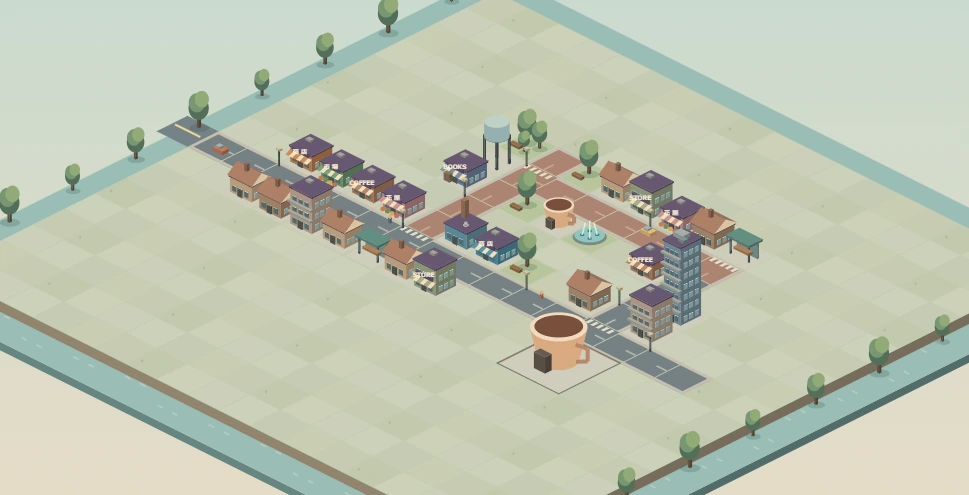
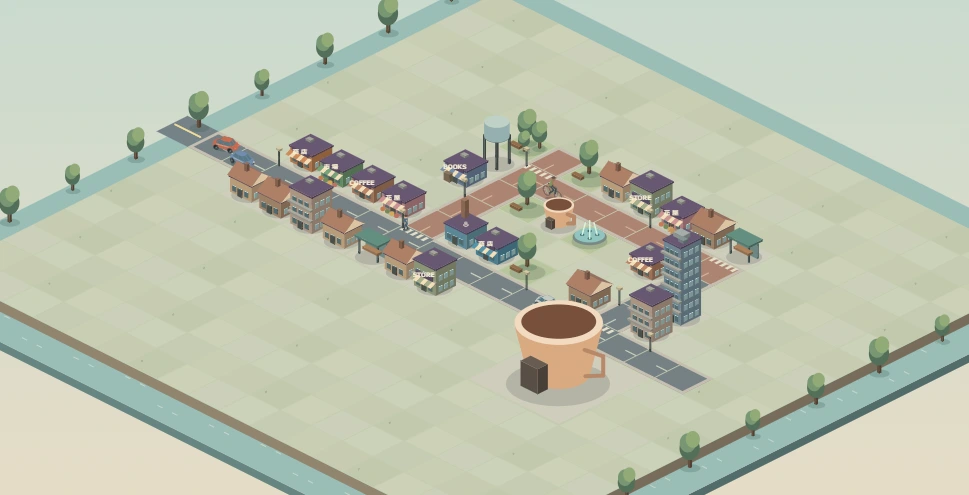
Unlock population landmarks and animate detailed street traffic

diff --git a/public/scale-town.js b/public/scale-town.js
@@ -3,6 +3,7 @@
  const $=id=>document.getElementById(id),key='asobiba.scaleTown.v1',fmt=n=>Math.round(n).toLocaleString('ja-JP');
  let city=Town.start(),speed=1,paused=false,night=false,mode='build',group=1,id=2,scale=1;
  try{const s=JSON.parse(localStorage.getItem(key));if(s?.version===1&&Array.isArray(s.buildings)&&Array.isArray(s.history))city=s}catch{}
+ city.peak=Math.max(city.peak||0,city.pop,...city.history);
  let zoneType='home';city.zones??={};let status=Town.stats(city),mapView,simulationClock=0;
  function say(text){$('message').textContent=text}
  function persist(){try{localStorage.setItem(key,JSON.stringify(city))}catch{say('このブラウザでは保存できません。')}}
@@ -16,12 +17,21 @@
  document.querySelectorAll('#palette button[data-id]').forEach(b=>b.setAttribute('aria-pressed',String(mode==='build'&&+b.dataset.id===id)));
  $('speed').textContent=speed+'×';$('pause').textContent=paused?'▶':'Ⅱ';$('pause').setAttribute('aria-label',paused?'時間を再開':'時間を停止');
  }
- function hud(){status=Town.stats(city);$('cityName').textContent=city.name;$('day').textContent='第 '+city.day+' 日';$('pop').textContent=fmt(city.pop)+' 人';$('cash').textContent=fmt(city.cash)+' G';$('income').textContent=(status.balance>=0?'+':'')+fmt(status.balance)+' G';$('happy').textContent=status.happy+' %';controls();if($('stats').open)details()}
+ function rewardStatus(){
+ const peak=city.peak||city.pop,next=Town.milestones.find(m=>m.pop>peak);
+ const names=m=>m.ids.map(id=>Town.items[id].name).join('・');
+ $('milestoneText').textContent=next?'最高人口 '+peak+' 人 ／ '+next.pop+' 人で '+names(next):'最高人口 '+peak+' 人 ／ すべての人口報酬を達成';
+ $('milestoneProgress').max=next?.pop||500;$('milestoneProgress').value=peak;
+ const list=$('rewardList');list.replaceChildren();
+ for(const m of Town.milestones){const row=document.createElement('p');row.textContent=(peak>=m.pop?'✓ 達成':'未達成')+'　'+m.pop+' 人　'+names(m);list.append(row)}
+ }
+ $('rewardsOpen').onclick=()=>{rewardStatus();$('rewards').showModal()};
+ function hud(){rewardStatus();status=Town.stats(city);$('cityName').textContent=city.name;$('day').textContent='第 '+city.day+' 日';$('pop').textContent=fmt(city.pop)+' 人';$('cash').textContent=fmt(city.cash)+' G';$('income').textContent=(status.balance>=0?'+':'')+fmt(status.balance)+' G';$('happy').textContent=status.happy+' %';controls();if($('stats').open)details()}
  function icon(button,item){const cv=document.createElement('canvas');cv.width=120;cv.height=78;button.append(cv);const g=cv.getContext('2d'),p=(x,y,z=0)=>[60+(x-y)*32,58+(x+y-1)*15-z*25];
  const art=TownArt.view(g,p,0,false);art.tile(0,0,1,1,0,'#d6dbc6');if(item.id<2){art.tile(.05,.05,.96,.96,.01,item.id===0?'#707d82':'#ae8672');art.line([.2,.5,.02],[.8,.5,.02],'#efd5ac',2)}else art.structure({x:0,y:0,s:1,id:item.id},city.theme)}
  function palette(){const list=$('palette');list.replaceChildren();if(group===5){
  for(const [value,name] of [['home','住宅地'],['shop','商業地'],['clear','指定解除']]){const b=document.createElement('button');b.className='zone-choice';b.textContent=name;b.setAttribute('aria-pressed',String(zoneType===value&&mode==='zone'));b.onclick=()=>{zoneType=value;mode='zone';palette();setMode('zone')};list.append(b)}
- }Town.items.filter(o=>o.group===group).forEach(v=>{const b=document.createElement('button');b.dataset.id=v.id;b.onclick=()=>{id=v.id;setMode('build')};icon(b,v);b.append(document.createTextNode(v.name));list.append(b)});Array.from($('groups').children).forEach((b,i)=>b.setAttribute('aria-pressed',String(i===group)));controls()}
+ }Town.items.filter(o=>o.group===group).forEach(v=>{const b=document.createElement('button');b.dataset.id=v.id;b.disabled=!Town.unlocked(city,v.id);if(b.disabled)b.title='最高人口 '+Town.required(v.id)+' 人で解放';b.onclick=()=>{id=v.id;setMode('build')};icon(b,v);b.append(document.createTextNode(v.name+(b.disabled?'・'+Town.required(v.id)+'人':'')));list.append(b)});Array.from($('groups').children).forEach((b,i)=>b.setAttribute('aria-pressed',String(i===group)));controls()}
  function setMode(value){mode=value;controls();say(mode==='build'?(id<2?'道路を引く始点から終点までドラッグ。':'空き区画を押して「'+Town.items[id].name+'」を建設。'):$('spec').textContent)}
  [...Town.groups,'区画指定'].forEach((name,i)=>{const b=document.createElement('button');b.textContent=name;b.onclick=()=>{group=i;if(i<5)id=Town.items.find(o=>o.group===i).id;mode=i===5?'zone':'build';palette();setMode(mode)};$('groups').append(b)});
  Town.sizes.forEach((s,i)=>option($('scale'),i,s.name+'（'+s.n+'×'+s.n+'）'));$('scale').onchange=()=>{scale=+$('scale').value;controls()};
@@ -34,7 +44,7 @@
  city.buildings.push(...fresh.map(o=>({...o,id,s:1,paid:city.free?0:cost})));changed(fresh.length+' 区画の道路を開通しました。')}
  function tap(pos){const {x,y}=pos,b=status.map.get(Town.key(x,y));
  if(mode==='build'){
- const obj={id,s:scale,x,y},err=Town.valid(city,status.map,obj);if(err)return say(err);const cost=Town.price(id,scale);if(!spend(cost))return;
+ if(!Town.unlocked(city,id))return say('人口条件を達成すると建設できます。');const obj={id,s:scale,x,y},err=Town.valid(city,status.map,obj);if(err)return say(err);const cost=Town.price(id,scale);if(!spend(cost))return;
  obj.paid=city.free?0:cost;city.buildings.push(obj);changed(Town.items[id].name+'が完成しました。');if(!status.active.has(obj))say('完成しました。町外につながる道路を建物の辺に接続してください。');return}
  if(!b)return say('ここは空き区画です。');const v=Town.items[b.id],paid=b.paid??Town.price(b.id,b.s);
  if(mode==='inspect'){const s=Town.sizes[b.s];return say(v.name+' ／ '+(b.id<2?(status.net.has(Town.key(x,y))?'町外に接続':'孤立した道路'):s.name+'・'+(status.active.has(b)?'道路接続済み':'道路未接続')+' ／ 入居枠 '+Math.round(v.homes*s.fac*(city.theme===3&&v.homes>=18?1.15:1))+' 人・雇用 '+Math.round(v.jobs*s.fac)+' 人'))}
@@ -52,7 +62,7 @@
  let count=0;for(const {x,y} of cells){const k=Town.key(x,y);if(zoneType==='clear'){if(k in city.zones){delete city.zones[k];count++}}else if(!status.map.has(k)&&city.zones[k]!==zoneType){city.zones[k]=zoneType;count++}}
  changed(count+' 区画の指定を更新しました。')
  }});
- $('rotate').onclick=()=>mapView.rotate();$('fit').onclick=()=>mapView.fit();$('plus').onclick=()=>mapView.zoom(1.22);$('minus').onclick=()=>mapView.zoom(.82);$('night').onclick=()=>{night=!night;$('night').setAttribute('aria-pressed',String(night))};
+ $('streetView').onclick=()=>{setMode('hand');mapView.street()};$('rotate').onclick=()=>mapView.rotate();$('fit').onclick=()=>mapView.fit();$('plus').onclick=()=>mapView.zoom(1.22);$('minus').onclick=()=>mapView.zoom(.82);$('night').onclick=()=>{night=!night;$('night').setAttribute('aria-pressed',String(night))};
  $('statsOpen').onclick=()=>{details();$('stats').showModal()};$('speed').onclick=()=>{speed=speed===1?2:speed===2?4:1;controls()};$('pause').onclick=()=>{paused=!paused;controls()};
  Town.themes.forEach((a,i)=>option($('theme'),i,a[0]));for(let t=5;t<=15;t++)option($('tax'),t,t+'%');
  $('theme').onchange=()=>$('themeInfo').textContent=Town.themes[+$('theme').value][2];
@@ -65,6 +75,6 @@
  readSettings();simulationClock=0;group=0;id=0;mode='build';scale=1;
  mapView.fit();$('setup').close();palette();changed('新しい街が誕生しました。入口の道路から通りを延ばしてください。')
  };
- setInterval(()=>{if(paused||document.hidden||$('setup').open)return;simulationClock+=speed;if(simulationClock<7)return;simulationClock-=7;Town.day(city);hud();persist()},1000);
+ setInterval(()=>{if(paused||document.hidden||$('setup').open)return;simulationClock+=speed;if(simulationClock<7)return;simulationClock-=7;const prev=city.peak||city.pop;Town.day(city);const reached=Town.milestones.filter(m=>prev<m.pop&&m.pop<=city.peak);if(reached.length){palette();say('人口報酬を獲得！ '+reached.flatMap(m=>m.ids.map(id=>Town.items[id].name)).join('・')+' が建設できます。')}hud();persist()},1000);
  palette();hud();say('道路沿いの空き区画に最初のお店を置こう。街の名前と方針は「街の設定」から。');
 })();

diff --git a/public/scale-town-art.js b/public/scale-town-art.js
@@ -14,7 +14,7 @@ const TownArt=(()=>{
  poly([[x,front,z],[X,front,z],[X,front,T],[x,front,T]],shade(base,sy>0?.85:.78));poly([[side,y,z],[side,Y,z],[side,Y,T],[side,y,T]],shade(base,.69));tile(x,y,w,d,T,roof)}
  function tree(x,y,s=.75){ellipse(x+.05,y+.04,.01,10*s,4*s,'#345a4838');block(x-.035*s,y-.035*s,0,.07*s,.07*s,.47*s,'#765d48');for(const [a,b,z,r,col] of [[0,.01,.51,10,'#526f59'],[-.07,0,.62,8,'#779673'],[.045,-.05,.74,7,'#92aa77']])ellipse(x+a*s,y+b*s,z*s,r*s,r*1.18*s,col)}
  function label(x,y,z,text,col='#f7eed4'){const [a,b]=p(x,y,z),u=Math.abs(p(x+1,y,z)[0]-a)/W;c.save();c.translate(a,b);c.scale(u,u);c.font='bold 6px sans-serif';c.fillStyle=col;c.textAlign='center';c.fillText(text,0,1,44);c.restore()}
- function structure(b,theme=0){
+ function structure(b,theme=0,time=0){
  const v=Town.items[b.id],sz=Town.sizes[b.s],n=sz.n,s=sz.draw,x=b.x+n/2,y=b.y+n/2,form=v.form;
  const base=v.color,trim=['#704f46','#638578','#685772','#697f91'][theme],light=night?'#ffd98a':'#b3d7d5',glass=night?'#f2c67d':'#617d80';
  function B(a,e,z,w,d,h,col,top){block(x+a*s,y+e*s,z*s,w*s,d*s,h*s,col,top)}
@@ -22,6 +22,42 @@ const TownArt=(()=>{
  function E(a,e,z,rx,ry,col){ellipse(x+a*s,y+e*s,z*s,rx*s,ry*s,col)}
  function L(a,e,col,w){line([x+a[0]*s,y+a[1]*s,a[2]*s],[x+e[0]*s,y+e[1]*s,e[2]*s],col,w)}
  tile(b.x+.035,b.y+.035,n-.07,n-.07,.013,v.group===4?'#b7c59c':'#cfccbc');
+ E(.08,.09,.022,20,8.6,'#394c4530');
+ function beam(a,b,col,width){L(a,b,col,Math.max(.6,width*Math.abs(p(x+1,y,0)[0]-p(x,y,0)[0])/W*s))}
+ function face(points,col){poly(points.map(([a,b,z])=>[x+a*s,y+b*s,z*s]),col)}
+ if(form==='wheel'){
+   const R=.455,center=.64;
+   for(const dy of [-.15,.15]){beam([-.30,dy,0],[0,dy,center],'#526975',3);beam([.30,dy,0],[0,dy,center],'#77939e',3)}
+   const rim=[];for(let j=0;j<32;j++){const a=j*Math.PI/16;rim.push([Math.cos(a)*R,.01,center+Math.sin(a)*R])}
+   for(let j=0;j<32;j++)beam(rim[j],rim[(j+1)%32],'#a66657',2);
+   for(let j=0;j<10;j++){const a=j*Math.PI/5+time*.16,X=R*Math.cos(a),z=center+R*Math.sin(a);beam([0,.01,center],[X,.01,z],'#d4b197',1);beam([X,.01,z],[X,.01,z-.055],'#405560',1);B(X-.043,-.043,z-.13,.086,.09,.082,['#ba715a','#73958d','#ccaa65'][j%3])}
+   E(0,.02,center,3.4,3.2,'#e2b66d');return
+ }
+ if(form==='windmill'){
+   const wall=[];for(let j=0;j<12;j++){const a=j*Math.PI/6;wall.push([.31*Math.cos(a),.31*Math.sin(a)])}
+   for(let j=0;j<12;j++){const [a,b]=wall[j],[d,e]=wall[(j+1)%12];if((a+d)*sx+(b+e)*sy<0)continue;
+   face([[a,b,.025],[d,e,.025],[d*.64,e*.64,.72],[a*.64,b*.64,.72]],shade('#d3b99b',.81+j*.012))}
+   for(let j=0;j<10;j++)E(0,0,.72+j*.019,9-j*.82,4.5-j*.35,'#74594f');
+   for(let j=0;j<4;j++){const a=time*.64+j*Math.PI/2,co=Math.cos(a),si=Math.sin(a);
+   const tip=(r,w)=>[r*co-w*si,.24,.67+r*si+w*co];
+   face([tip(.10,0),tip(.45,0),tip(.45,.085),tip(.18,.05)],'#ece1c2');beam(tip(-.02,0),tip(.47,0),'#755c47',1.6);
+   for(let k=0;k<4;k++)beam(tip(.21+k*.06,0),tip(.21+k*.06,.06),'#96866e',.65)}
+   E(0,.24,.67,2.4,2.4,'#725847');return
+ }
+ if(form==='carousel'){
+   E(0,0,.1,18,8,'#966952');E(0,0,.14,18,8,'#e0bb81');B(-.035,-.035,.12,.07,.07,.55,'#ad8760');
+   for(let j=0;j<8;j++){const a=time*.47+j*Math.PI/4,X=.32*Math.cos(a),Y=.32*Math.sin(a),z=.31+.043*Math.sin(2*a);beam([X,Y,.13],[X,Y,.63],'#a0824d',1);E(X,Y,z,3.2,1.7,j%2?'#ceb18e':'#967960');E(X+.055,Y,z+.05,1.4,1.9,'#bd9e7a')}
+   for(let j=0;j<12;j++){const a=j*Math.PI/6,d=a+Math.PI/6;face([[0,0,.93],[.48*Math.cos(a),.48*Math.sin(a),.63],[.48*Math.cos(d),.48*Math.sin(d),.63]],j%2?'#e6cc9d':'#b95f5b')}E(0,0,.95,2,2.4,'#c9a359');return
+ }
+ if(form==='clockgarden'||form==='clocktower'){
+   const tower=form==='clocktower',z=tower?.93:.11;
+   if(tower){B(-.23,-.23,0,.46,.46,.86,'#b88f73');B(-.29,-.29,.81,.58,.58,.30,'#c7a88a');
+   for(let j=0;j<12;j++)E(0,0,1.12+j*.025,14-j,7-j*.5,'#648378');
+   E(0,.3,z+.045,5,5,'#fff0c5');beam([0,.3,z+.045],[.08*Math.sin(time*.14),.3,z+.045+.08*Math.cos(time*.14)],'#494943',1.2)}
+   else{E(0,0,z,19,9,'#73835e');for(let j=0;j<12;j++){const a=j*Math.PI/6;E(.35*Math.cos(a),.35*Math.sin(a),z+.03,2.3,2,['#dc9b92','#e6c390','#a8afcc'][j%3])}
+   beam([0,0,z+.045],[.27*Math.cos(time*.1),.27*Math.sin(time*.1),z+.045],'#f1e3bc',2);beam([0,0,z+.047],[-.11,.13,z+.047],'#dbc188',2)}
+   return
+ }
  if(['park','grove','button','market','bus','tank'].includes(form)){
  if(form==='park'||form==='grove'){tree(x-.19*s,y-.17*s,1.05*s);if(form==='grove'){tree(x+.25*s,y-.19*s,.86*s);tree(x+.08*s,y+.22*s,.65*s)}B(-.32,.22,.08,.34,.13,.085,'#946e4c');return}
  if(form==='button'){E(0,0,.09,19,9,'#798985');E(0,0,.145,17,8,'#91c5c0');for(const i of [-1,1])for(const j of [-1,1]){E(i*.14,j*.14,.16,2.4,1.4,'#4a777c');L([i*.14,j*.14,.16],[i*.08,j*.08,.52],'#d7f3df',1.4)}return}
@@ -41,10 +77,15 @@ const TownArt=(()=>{
  B(sx>0?w/2:-w/2-.015,-d*.36+j*d*.27,z,.018,d*.16,.15,light)}
  if(f&&['tower','flat','mixed'].includes(form))B(-w/2-.035,sy>0?d/2:-d/2-.085,z-.03,w+.07,.09,.055,'#acaaa0')}
  B(-.1,sy>0?d/2:-d/2-.024,.03,.16,.029,.22,'#585e58');
+ // Cornices, masonry courses and roof fittings give each frontage a material scale.
+ for(const a of [-w*.47,w*.45])B(a,sy>0?d/2:-d/2-.017,.04,.026,.024,h-.01,'#b4a78d');
+ if(['library','bath','books','cinema'].includes(form)){
+ for(let j=1;j<7;j++)L([-w*.48,sy*d*.502,j*.058],[w*.48,sy*d*.502,j*.058],'#957f7070',.55)}
  B(-w/2-.025,-d/2-.025,h+.03,w+.05,d+.05,.045,trim);
  if(form==='house'||form==='row'||form==='library'){
  const X=x-w*s*.57,Y=y-d*s*.58,A=x+w*s*.57,D=y+d*s*.58,z=(h+.075)*s,peak=z+.27*s;
  poly([[X,Y,z],[A,Y,z],[A,y,peak],[X,y,peak]],'#927061');poly([[X,y,peak],[A,y,peak],[A,D,z],[X,D,z]],'#ae8067');
+ for(let j=1;j<=7;j++){const rx=X+(A-X)*j/8;line([rx,y,peak],[rx,sy>0?D:Y,z],'#795e525e',.8)}
  const end=sx>0?A:X;poly([[end,Y,z],[end,D,z],[end,y,peak]],'#dcc3a0');B(-.23,-.14,h+.13,.095,.10,.22,'#956f59');return}
  if(['awning','produce','cafe','flowers','lantern','mixed','books'].includes(form)){
  const edge=d/2*sy;for(let j=0;j<6;j++){const a=-w/2+j*w/6;
@@ -52,7 +93,10 @@ const TownArt=(()=>{
  if(form==='produce'||form==='flowers')for(let j=0;j<4;j++)E(-.28+j*.17,edge+.13*sy,.1,2.7,2.5,['#c67b4e','#748b56','#d5aa59','#be7160'][j]);
  if(form==='lantern')E(.36,edge,.29,3.3,5,'#d57b58');
  const sign={'awning':'商 店','produce':'市 場','cafe':'COFFEE','flowers':'花 屋','lantern':'中 華','mixed':'STORE','books':'BOOKS'}[form];
- B(-.31,edge,.43,.62,.034,.115,trim);label(x,y+(edge+.035*sy)*s,.475*s,sign);
+ B(-.31,edge,.43,.62,.034,.115,trim);const nameplate=sy>0?edge+.045:edge-.045;
+ const a=p(x-.3*s,y+nameplate*s,.545*s),b=p(x+.3*s,y+nameplate*s,.545*s),lower=p(x-.3*s,y+nameplate*s,.425*s);
+ c.save();if(b[0]<a[0]){const e=p(x+.3*s,y+nameplate*s,.425*s);c.transform((a[0]-b[0])/90,(a[1]-b[1])/90,(e[0]-b[0])/20,(e[1]-b[1])/20,b[0],b[1])}else c.transform((b[0]-a[0])/90,(b[1]-a[1])/90,(lower[0]-a[0])/20,(lower[1]-a[1])/20,a[0],a[1]);
+ c.fillStyle=trim;c.fillRect(0,0,90,20);c.fillStyle='#f4e7c8';c.font='bold 14px sans-serif';c.textAlign='center';c.fillText(sign,45,15);c.restore();
  if(form==='books')B(-.33,edge,.02,.21,.12,.24,'#8a785e');
  }
  if(form==='bath'){B(-.3,-.27,h+.075,.14,.15,.52,'#9f795f');label(x,y,h*s,'♨')}

diff --git a/public/scale-town-motion.js b/public/scale-town-motion.js
@@ -1,0 +1,74 @@
+'use strict';
+const StreetMotion=(()=>{
+ // Consecutive quadratics share a lane midpoint and a tangent; the controller
+ // advances more slowly near a bend, including the loop at a dead end.
+ function sample(route,q,lane){
+ const n=route.length,i=Math.floor(q)%n,u=q%1;
+ const A=route[(i+n-1)%n],B=route[i],C=route[(i+1)%n];
+ const ux=B[0]-A[0],uy=B[1]-A[1],vx=C[0]-B[0],vy=C[1]-B[1];
+ const bend=ux!==vx||uy!==vy,t=bend?u+.24*Math.sin(u*2*Math.PI)/(2*Math.PI):u;
+ const U=[(A[0]+B[0])/2+.5-uy*lane,(A[1]+B[1])/2+.5+ux*lane];
+ const V=[(B[0]+C[0])/2+.5-vy*lane,(B[1]+C[1])/2+.5+vx*lane];
+ const back=ux===-vx&&uy===-vy;
+ const K=[B[0]+.5-(uy+vy)*lane/2+(back?ux*.39:0),B[1]+.5+(ux+vx)*lane/2+(back?uy*.39:0)];
+ const w=1-t,x=w*w*U[0]+2*w*t*K[0]+t*t*V[0],y=w*w*U[1]+2*w*t*K[1]+t*t*V[1];
+ return {x,y,angle:Math.atan2(w*(K[1]-U[1])+t*(V[1]-K[1]),w*(K[0]-U[0])+t*(V[0]-K[0])),braking:bend&&u<.65};
+ }
+ function draw(ctx,project,pose,kind,j,phase,night){
+ const {x,y,angle}=pose,co=Math.cos(angle),si=Math.sin(angle);
+ const pt=(a,b,z)=>project(x+a*co-b*si,y+a*si+b*co,z);
+ const origin=pt(0,0,0),unit=Math.abs(project(x,y,1)[1]-origin[1]);
+ function path(points){ctx.beginPath();points.forEach((v,i)=>i?ctx.lineTo(...pt(...v)):ctx.moveTo(...pt(...v)))}
+ function fill(points,col){path(points);ctx.closePath();ctx.fillStyle=col;ctx.fill()}
+ function line(points,width,col){path(points);ctx.lineWidth=Math.max(.45,width*unit);ctx.lineCap='round';ctx.lineJoin='round';ctx.strokeStyle=col;ctx.stroke()}
+ function oval(a,b,z,rx,ry,col){ctx.beginPath();ctx.ellipse(...pt(a,b,z),rx*unit,ry*unit,0,0,Math.PI*2);ctx.fillStyle=col;ctx.fill()}
+ function wheel(a,b,z,r,spokes){
+ const rim=[];for(let k=0;k<=20;k++){const t=k*Math.PI/10;rim.push([a+r*Math.cos(t),b,z+r*Math.sin(t)])}
+ if(!spokes)fill(rim,'#262d30');line(rim,spokes?.011:.014,'#364044');
+ for(let k=0;k<(spokes?6:3);k++){const t=phase+k*Math.PI/3;line([[a,b,z],[a+r*.82*Math.cos(t),b,z+r*.82*Math.sin(t)]],.007,spokes?'#bac7bd':'#9ba5a3')}
+ }
+ const near=pt(0,1,0)[1]>origin[1]?1:-1;
+ oval(0,.02,.004,kind==='car'?.28:kind==='cycle'?.18:.078,kind==='car'?.09:.035,'#233d3844');
+ if(kind==='car'){
+ const paint=['#c76c50','#728daf','#e7bc72','#72a194','#c4c9c3'][j%5],front=pt(1,0,0)[1]>origin[1]?1:-1;
+ const rings=[[.05,.275,.11],[.105,.318,.14],[.16,.28,.138],[.17,.23,.125],[.257,.125,.10]];
+ function ring([z,len,breadth],k){const a=k*Math.PI/10,dx=Math.cos(a),dy=Math.sin(a);return [Math.sign(dx)*Math.pow(Math.abs(dx),.43)*len-(z>.18?.025:0),Math.sign(dy)*Math.pow(Math.abs(dy),.42)*breadth,z]}
+ for(const a of [-.18,.18])wheel(a,-near*.12,.066,.06,false);
+ for(let h=1;h<rings.length;h++){const faces=[];for(let k=0;k<20;k++){
+ const pts=[ring(rings[h-1],k),ring(rings[h-1],k+1),ring(rings[h],k+1),ring(rings[h],k)];faces.push({pts,d:pt(...pts[0])[1]+pt(...pts[1])[1]})}
+ faces.sort((a,b)=>a.d-b.d).forEach(({pts})=>{const top=pt(...pts[3]),low=pt(...pts[0]),sheen=ctx.createLinearGradient(top[0],top[1],low[0]+.1,low[1]+.1);
+ sheen.addColorStop(0,h===4?'#adc7ce':paint);sheen.addColorStop(1,h===4?'#466171':h===1?'#556063':paint);fill(pts,sheen);if(h===4&&Math.abs(pts[0][0])>.19&&Math.abs(pts[0][1])>.10)line([pts[0],pts[3]],.009,paint)})
+ }fill(Array.from({length:20},(_,k)=>ring(rings[4],k)),paint);
+ for(const a of [-.18,.18])wheel(a,near*.145,.066,.06,false);
+ line([[-.14,near*.143,.154],[.17,near*.143,.154]],.009,'#d0d6cc');
+ for(const b of [-.081,.081]){oval(front*.289,b,.122,.023,.012,front>0?'#ffe5ae':pose.braking?'#ff7050':'#ae463c');
+ if(night)fill([[.295,b,.018],[.64,b-.072,.011],[.64,b+.072,.011]],'#ffde9a38')}
+ return}
+ const coat=['#b46c51','#476781','#84925f','#c2945d','#a58395','#527e76'][j%6],skin=['#cb9776','#d6ad8c','#9f7359'][j%3];
+ if(kind==='cycle'){
+ const rear=[-.18,0,.12],hub=[.18,0,.12],crank=[0,0,.10],seat=[-.08,0,.31],bars=[.125,0,.33];
+ wheel(...rear,.116,true);wheel(...hub,.116,true);line([rear,seat,crank,rear],.018,coat);line([seat,bars,crank],.017,coat);line([hub,bars,[.14,.05,.36]],.017,'#657678');
+ line([[-.13,0,.323],[-.045,0,.323]],.028,'#423c37');
+ for(const side of [-near,near]){const a=phase+(side===near?0:Math.PI),pedal=[.057*Math.cos(a),side*.035,.12+.057*Math.sin(a)];line([[ -.065,side*.024,.32],[.08,side*.036,.25+.018*Math.sin(a)],pedal],.043,'#435057')}
+ line([[-.065,0,.32],[.012,0,.46]],.084,coat);line([[.018,near*.024,.437],[.074,near*.038,.366],[.14,near*.04,.35]],.029,skin);
+ oval(.041,0,.512,.049,.061,skin);oval(.036,0,.544,.05,.028,'#5a5450');return}
+ const bob=.009*Math.cos(phase*2),hip=.17+bob,shoulder=.296+bob;
+ for(const side of [-near,near]){
+ const a=phase+(side===near?0:Math.PI),swing=Math.sin(a),lift=Math.max(0,Math.cos(a)),foot=[.088*swing,side*.021,.018+.045*lift],knee=[.04*swing+.035*lift,side*.021,.092+.019*lift];
+ line([[0,side*.022,hip],knee,foot],.035,'#48535a');line([foot,[foot[0]+.027,foot[1],foot[2]]],.025,'#403c39')
+ }
+ // Jacket silhouette, collar and a shaded side panel follow the shoulder bob.
+ const [cx,cy]=pt(.004,0,shoulder);
+ const cloth=ctx.createLinearGradient(cx-unit*.06,cy,cx+unit*.06,cy+unit*.07);
+ cloth.addColorStop(0,coat);cloth.addColorStop(.8,coat);cloth.addColorStop(1,'#59605a');
+ ctx.fillStyle=cloth;ctx.beginPath();ctx.moveTo(cx-unit*.045,cy);
+ ctx.quadraticCurveTo(cx,cy-unit*.022,cx+unit*.047,cy);
+ ctx.quadraticCurveTo(cx+unit*.055,cy+unit*.037,cx+unit*.036,cy+unit*.089);
+ ctx.lineTo(cx+unit*.046,cy+unit*.141);ctx.quadraticCurveTo(cx,cy+unit*.153,cx-unit*.043,cy+unit*.136);ctx.closePath();ctx.fill();
+ oval(.006,0,shoulder+.016,.021,.024,skin);
+ for(const side of [-near,near]){const swing=Math.sin(phase+(side===near?0:Math.PI));line([[.008,side*.036,shoulder],[.003-.039*swing,side*.046,.237+bob]],.033,coat);line([[.003-.039*swing,side*.046,.237+bob],[.019-.075*swing,side*.045,.20+bob]],.024,skin)}
+ oval(.011,0,.357+bob,.043,.053,skin);oval(.003,0,.383+bob,.045,.031,'#514941');oval(.046,0,.357+bob,.012,.014,skin);
+ if(j%3===1){line([[-.03,near*.024,shoulder],[.015,near*.03,hip+.01]],.011,'#706047');oval(-.022,near*.036,hip+.013,.037,.032,'#795945')}
+ }
+ return {sample,draw};
+})();

diff --git a/public/scale-town-map.js b/public/scale-town-map.js
@@ -11,7 +11,7 @@ function townMap(canvas,api){
  function zoneCells(a,b){
  const cells=[];for(let x=Math.max(0,Math.min(a.x,b.x));x<=Math.min(N-1,Math.max(a.x,b.x));x++)
  for(let y=Math.max(0,Math.min(a.y,b.y));y<=Math.min(N-1,Math.max(a.y,b.y));y++)cells.push({x,y});return cells}
- function setZoom(k){zoom=Math.max(.53,Math.min(3,zoom*k))}
+ function setZoom(k){zoom=Math.max(.53,Math.min(5,zoom*k))}
  canvas.onwheel=e=>{e.preventDefault();setZoom(e.deltaY>0?.88:1.14)};
  canvas.oncontextmenu=e=>e.preventDefault();canvas.onpointerdown=e=>{
  if(drag)return;const start=cell(e);drag={id:e.pointerId,start,last:start,moving:api.mode()==='hand'||e.button===2||e.shiftKey,cx:e.clientX,cy:e.clientY};hover=start;canvas.setPointerCapture(e.pointerId)};
@@ -23,13 +23,13 @@ function townMap(canvas,api){
  let routes=[],oldNet=null;
  function traffic(net){if(oldNet===net)return;oldNet=net;routes=[];
  const streets=Array.from(net,k=>k.split(',').map(Number));if(streets.length<2)return;
- for(let j=0;j<14;j++){const walk=[streets[(j*7)%streets.length]];
+ for(let j=0;j<27;j++){const walk=[streets[(j*7)%streets.length]];
  for(let t=0;t<14;t++){const [x,y]=walk.at(-1),back=walk.at(-2);
  let options=[[x+1,y],[x-1,y],[x,y+1],[x,y-1]].filter(([a,b])=>net.has(Town.key(a,b)));
  if(options.length>1&&back)options=options.filter(([a,b])=>a!==back[0]||b!==back[1]);
  if(!options.length)break;walk.push(options[(t*13+j)%options.length])}if(walk.length>1)routes.push(walk.concat(walk.slice(1,-1).reverse()))}}
  function paint(t){
- requestAnimationFrame(paint);if(t-last<42||!w||document.hidden)return;const dt=Math.min(.1,(t-last)/1000);last=t;if(api.running())trafficTime+=dt*api.running();
+ requestAnimationFrame(paint);if(t-last<28||!w||document.hidden)return;const dt=Math.min(.1,(t-last)/1000);last=t;if(api.running())trafficTime+=dt*api.running();
  const c=api.city(),st=api.stats(),night=api.night(),v=TownArt.view(ctx,project,rotation,night);
  const bg=ctx.createLinearGradient(0,0,0,h);bg.addColorStop(0,night?'#253747':'#cbdacf');bg.addColorStop(1,night?'#48555c':'#e5dcc6');ctx.fillStyle=bg;ctx.fillRect(0,0,w,h);
  v.block(-1,-1,-.48,N+2,N+2,.22,'#799c99',night?'#526d76':'#9abdb7');for(let i=0;i<52;i++){
@@ -57,18 +57,26 @@ function townMap(canvas,api){
  const bad=api.mode()==='build'&&Town.valid(c,st.map,{...a,id,s});v.tile(a.x,a.y,n,n,.022,bad?'#bb806d':'#adcdb4','#376c66')}
  if(api.mode()==='build'&&id>=2&&!Town.valid(c,st.map,b))ghost=b}
  const list=[];
- for(const b of c.buildings){if(b.id<2)continue;const n=Town.sizes[b.s].n;list.push({d:depth(b.x+n/2,b.y+n/2),draw:()=>{v.structure(b,c.theme);if(!st.active.has(b)){const [x,y]=project(b.x+n*.5,b.y+n*.5,1);ctx.fillStyle='#af5845';ctx.fillRect(x-2,y-2,4,4)}}})}
+ for(const b of c.buildings){if(b.id<2)continue;const n=Town.sizes[b.s].n;list.push({d:depth(b.x+n/2,b.y+n/2),draw:()=>{v.structure(b,c.theme,trafficTime);if(!st.active.has(b)){const [x,y]=project(b.x+n*.5,b.y+n*.5,1);ctx.fillStyle='#af5845';ctx.fillRect(x-2,y-2,4,4)}}})}
  for(const b of c.buildings){if(b.id>=2||(b.x+2*b.y)%4!==0)continue;
  const x=b.x+.1,y=b.y+.14;list.push({d:depth(x,y),draw:()=>{v.block(x,y,.025,.031,.031,.43,'#586560');v.block(x-.037,y-.025,.45,.12,.09,.055,night?'#ffe5a3':'#d6c9a1')}})}
  for(let j=0;j<15;j++){const x=j%2?N+.46:-.47,y=1+j*1.02;if(y>17.6)continue;list.push({d:depth(x,y),draw:()=>v.tree(x,y,.72+(j%3)*.13)})}
  if(ghost){const n=Town.sizes[ghost.s].n;list.push({d:depth(ghost.x+n/2,ghost.y+n/2),draw:()=>{ctx.globalAlpha=.55;v.structure(ghost,c.theme);ctx.globalAlpha=1}})}
  traffic(st.net);
- routes.slice(0,Math.min(routes.length,Math.ceil(c.pop/7))).forEach((route,j)=>{const car=j%3===0,q=trafficTime*(car?.7:.32)+j*1.7,i=Math.floor(q)%route.length,f=q%1,[x,y]=route[i],[nx,ny]=route[(i+1)%route.length],dx=nx-x,dy=ny-y;
- const a=x+.5+dx*f-dy*(car?.13:.32),b=y+.5+dy*f+dx*(car?.13:.32),col=['#c57a58','#64798b','#aaa675','#e4be76'][j%4];
- list.push({d:depth(a,b),draw:()=>{if(car){v.block(a-.11,b-.10,.035,dx?.31:.21,dy?.31:.21,.095,col);v.block(a-.055,b-.06,.13,.13,.13,.05,'#9bb3b2')}else{v.block(a-.025,b-.025,.015,.055,.055,.125,col);v.ellipse(a,b,.17,1.6,1.9,'#d8ad84')}}})});
+ routes.slice(0,Math.min(routes.length,Math.ceil(c.pop/5))).forEach((route,j)=>{
+ const kind=['car','walk','cycle','walk','car','walk'][j%6],speed={car:.72,cycle:.46,walk:.26}[kind];
+ const q=trafficTime*speed+j*1.7,pose=StreetMotion.sample(route,q,kind==='walk'?.34:kind==='cycle'?.24:.14);
+ list.push({d:depth(pose.x,pose.y),draw:()=>StreetMotion.draw(ctx,project,pose,kind,j,trafficTime*(kind==='walk'?5.8:kind==='cycle'?4:9)+j,night)})
+ });
  list.sort((a,b)=>a.d-b.d).forEach(o=>o.draw());
  if(night){ctx.fillStyle='#182a4c45';ctx.fillRect(0,0,w,h);for(const b of c.buildings){if(b.id>1&&Town.items[b.id].group===1&&st.active.has(b)){const [x,y]=project(b.x+.68,b.y+.68,.24),r=12*base*zoom,gl=ctx.createRadialGradient(x,y,0,x,y,r);gl.addColorStop(0,'#ffde8f88');gl.addColorStop(1,'#ffd18000');ctx.fillStyle=gl;ctx.fillRect(x-r,y-r,r*2,r*2)}}}
  }
  requestAnimationFrame(paint);
- return {rotate(){rotation=(rotation+1)%4},zoom:setZoom,fit(){zoom=Math.min(1,w/(N*2*W*base+8),h/(N*2*H*base+40));panX=0;panY=0},project};
+ return {street(){
+ const s=api.stats(),roads=Array.from(s.net,k=>k.split(',').map(Number));
+ if(!roads.length)return;
+ const shops=Array.from(s.active).filter(b=>Town.items[b.id].group===1);
+ const street=roads.reduce((best,r)=>{const score=shops.reduce((n,b)=>n+1/(1+(b.x-r[0])**2+(b.y-r[1])**2),0);return score>best.score?{r,score}:best},{score:-1}).r;
+ zoom=3.6;panX=0;panY=0;const [px,py]=project(street[0]+.5,street[1]+.5);panX=w/2-px;panY=h*.57-py;
+ },rotate(){rotation=(rotation+1)%4},zoom:setZoom,fit(){zoom=Math.min(1,w/(N*2*W*base+8),h/(N*2*H*base+40));panX=0;panY=0},project};
 }

diff --git a/public/scale-town.html b/public/scale-town.html
@@ -1,8 +1,8 @@
-<!doctype html><html lang="ja"><head><meta charset="utf-8"><meta name="viewport" content="width=device-width,initial-scale=1"><meta name="theme-color" content="#172c34"><title>縮尺が壊れた商店街｜ホームページの遊び場</title><link rel="stylesheet" href="/playground-nav.css"><link rel="stylesheet" href="/scale-town.css"><script defer src="/playground-nav.js"></script><script defer src="/scale-town-data.js"></script><script defer src="/scale-town-art.js"></script><script defer src="/scale-town-map.js"></script><script defer src="/scale-town.js"></script></head><body>
+<!doctype html><html lang="ja"><head><meta charset="utf-8"><meta name="viewport" content="width=device-width,initial-scale=1"><meta name="theme-color" content="#172c34"><title>縮尺が壊れた商店街｜ホームページの遊び場</title><link rel="stylesheet" href="/playground-nav.css"><link rel="stylesheet" href="/scale-town.css"><script defer src="/playground-nav.js"></script><script defer src="/scale-town-data.js"></script><script defer src="/scale-town-art.js"></script><script defer src="/scale-town-motion.js"></script><script defer src="/scale-town-map.js"></script><script defer src="/scale-town.js"></script></head><body>
 <header><a href="/">✳ 遊び場</a><i></i><span>街づくりスタジオ</span><button id="settings">街の設定</button></header>
 <main><div class="mast"><div><small>SCALE DISTRICT</small><h1>縮尺が壊れた商店街<span>。</span></h1></div><div class="clock"><b id="day"></b><button id="speed" title="時間の速さ"></button><button id="pause" aria-label="時間を停止"></button></div></div>
 <div class="metrics"><div><small>人口</small><strong id="pop"></strong></div><div><small>街の資金</small><strong id="cash"></strong></div><div><small>日次収支</small><strong id="income"></strong></div><div><small>住民満足度</small><strong id="happy"></strong></div></div>
-<div class="workspace"><section class="map-wrap"><div class="maphead"><div><span class="lamp"></span><b id="cityName"></b></div><button id="statsOpen">街の統計 ↗</button></div><canvas id="map" aria-label="商店街の区画マップ"></canvas><div class="maptools"><button id="hand">✥ 移動</button><button id="rotate" aria-label="視点を回転">↻</button><button id="plus" aria-label="拡大">＋</button><button id="minus" aria-label="縮小">−</button><button id="fit" aria-label="全景に戻す">全景</button><button id="night" aria-pressed="false">夜景</button></div><p id="message" role="status"></p></section>
+<div class="milestone"><span id="milestoneText"></span><progress id="milestoneProgress" aria-label="次の人口報酬まで"></progress><button id="rewardsOpen">人口報酬一覧</button></div><div class="workspace"><section class="map-wrap"><div class="maphead"><div><span class="lamp"></span><b id="cityName"></b></div><button id="statsOpen">街の統計 ↗</button></div><canvas id="map" aria-label="商店街の区画マップ"></canvas><div class="maptools"><button id="hand">✥ 移動</button><button id="streetView">通りを観察</button><button id="rotate" aria-label="視点を回転">↻</button><button id="plus" aria-label="拡大">＋</button><button id="minus" aria-label="縮小">−</button><button id="fit" aria-label="全景に戻す">全景</button><button id="night" aria-pressed="false">夜景</button></div><p id="message" role="status"></p></section>
 <aside><h2>建設パレット</h2><div id="groups"></div><div id="palette"></div><div class="options"><strong id="selectedName"></strong><label>縮尺 <select id="scale"></select></label><p id="spec"></p><div class="edit"><button id="inspect">区画を調べる</button><button id="resize">縮尺変更</button><button id="remove">撤去</button></div></div></aside></div>
 </main><dialog id="setup"><form method="dialog"><div class="dialoghead"><h2>街の設定</h2><button aria-label="閉じる">×</button></div></form><label>街の名前 <input id="name" maxlength="24"></label><label>街の方針 <select id="theme"></select></label><p id="themeInfo"></p><label>住民税率 <select id="tax"></select></label><label><input id="free" type="checkbox"> 自由建築（建設費の支払いなし）</label><button id="apply">設定を保存</button><details class="new-town"><summary>新しい街を始める</summary><p>現在の街を置き換え、町外への入口と 3,500 G だけの更地から始めます。</p><button id="newTown">更地から始める</button></details></dialog>
-<dialog id="stats"><form method="dialog"><div class="dialoghead"><h2>街の統計</h2><button aria-label="閉じる">×</button></div></form><div id="details"></div><h3>最近の人口推移</h3><canvas id="trend" width="460" height="125"></canvas></dialog></body></html>
+<dialog id="rewards"><form method="dialog"><div class="dialoghead"><h2>人口の達成報酬</h2><button aria-label="閉じる">×</button></div></form><div id="rewardList"></div></dialog><dialog id="stats"><form method="dialog"><div class="dialoghead"><h2>街の統計</h2><button aria-label="閉じる">×</button></div></form><div id="details"></div><h3>最近の人口推移</h3><canvas id="trend" width="460" height="125"></canvas></dialog></body></html>

diff --git a/public/scale-town-data.js b/public/scale-town-data.js
@@ -9,6 +9,17 @@ const Town=(()=>{
  ['バス停','bus','#78a394',100,0,2,2,2,3],['診療所','clinic','#d1c6b4',220,0,8,3,3,3],['図書館','library','#a0806c',200,0,6,7,2,3],['学校','school','#d1b693',290,0,12,4,3,3],['交番','police','#879daf',145,0,4,2,2,3],['給水塔','tank','#8ea8ac',200,0,3,1,4,3],
  ['街角の公園','park','#87a785',65,0,0,7,1,4],['並木広場','grove','#6d9777',100,0,0,10,1,4],['ボタン噴水','button','#7ba6af',130,0,0,12,1,4],['屋台広場','market','#d49a59',145,0,7,9,0,4]
  ];
+ rows.push(
+ ['風車の製粉所','windmill','#cdaf85',220,0,12,6,0,1],
+ ['花時計広場','clockgarden','#b98699',140,0,2,12,2,4],
+ ['メリーゴーラウンド','carousel','#b96e65',360,0,16,16,1,4],
+ ['港の時計塔','clocktower','#b39178',480,0,8,18,4,3],
+ ['大観覧車','wheel','#859bb2',860,0,36,28,3,4]);
+ const milestones=[
+ {pop:50,ids:[34,11]}, {pop:100,ids:[35,12]}, {pop:180,ids:[36,13]},
+ {pop:300,ids:[37,15]}, {pop:500,ids:[38]}];
+ const required=id=>milestones.find(m=>m.ids.includes(id))?.pop||0;
+ const unlocked=(c,id)=>Math.max(c.peak||0,c.pop)>=required(id);
  const items=rows.map(([name,form,color,cost,homes,jobs,appeal,service,group],id)=>({id,name,form,color,cost,homes,jobs,appeal,service,group}));
  const themes=[['下町商店街','#e7ba87','個人商店の売上 +15%'],['緑のガーデンタウン','#a3c8a2','緑地による満足度 +25%'],['ネオン横丁','#bb97c4','飲食・娯楽店の売上 +25%'],['駅前都市','#8ab3ce','集合住宅の収容人数 +15%']];
  const sizes=[{name:'ミニ',n:1,fac:.58,draw:.65},{name:'標準',n:1,fac:1,draw:.87},{name:'巨大',n:2,fac:2.6,draw:1.64},{name:'超巨大',n:3,fac:5.1,draw:2.52}];
@@ -38,10 +49,10 @@ const Town=(()=>{
  const housing=type==='home';
  if(housing?s.homes>c.pop*1.5+20:s.jobs>c.pop*.85+15)continue;
  const choices=housing?[19,20,21,23]:[2,3,4,5,6,7,8,9,10,11,16,17,18];
- const b={x,y,s:1,id:choices[(x*3+y+c.day+c.theme)%choices.length],paid:0};
+ const allowed=choices.filter(id=>unlocked(c,id));const b={x,y,s:1,id:allowed[(x*3+y+c.day+c.theme)%allowed.length],paid:0};
  if(!access(b,s.net))continue;
  c.buildings.push(b);return;
  }}
- function day(c){let s=stats(c);develop(c,s);s=stats(c);c.cash+=s.balance;c.pop+=Math.sign(s.target-c.pop)*Math.min(Math.abs(s.target-c.pop),Math.ceil(Math.abs(s.target-c.pop)*.19));c.day++;c.history.push(c.pop);if(c.history.length>24)c.history.shift()}
- return {N,groups,items,themes,sizes,start,index,key,stats,price,valid,day};
+ function day(c){let s=stats(c);develop(c,s);s=stats(c);c.cash+=s.balance;c.pop+=Math.sign(s.target-c.pop)*Math.min(Math.abs(s.target-c.pop),Math.ceil(Math.abs(s.target-c.pop)*.19));c.peak=Math.max(c.peak||0,c.pop);c.day++;c.history.push(c.pop);if(c.history.length>24)c.history.shift()}
+ return {milestones,required,unlocked,N,groups,items,themes,sizes,start,index,key,stats,price,valid,day};
 })();

diff --git a/public/scale-town.css b/public/scale-town.css
@@ -2,3 +2,4 @@
 #palette{grid-auto-rows:max-content}#palette button{min-height:max-content}.options label{margin-top:4px}
 #palette .zone-choice{min-height:44px;padding:7px}
 .new-town{margin-top:14px;font-size:13px}.new-town summary{cursor:pointer}
+.milestone{display:flex;align-items:center;gap:12px;padding:7px 12px;background:#e6eddf;border:1px solid #bdcbbd;font-size:12px}.milestone progress{width:95px;height:7px;accent-color:#467e69}.milestone button{margin-left:auto;white-space:nowrap}#palette button:disabled{filter:saturate(.5);opacity:.66;cursor:default}#rewardList p{border-bottom:1px solid #bccabd;padding:6px 0}@media(max-width:650px){.milestone progress{display:none}}
